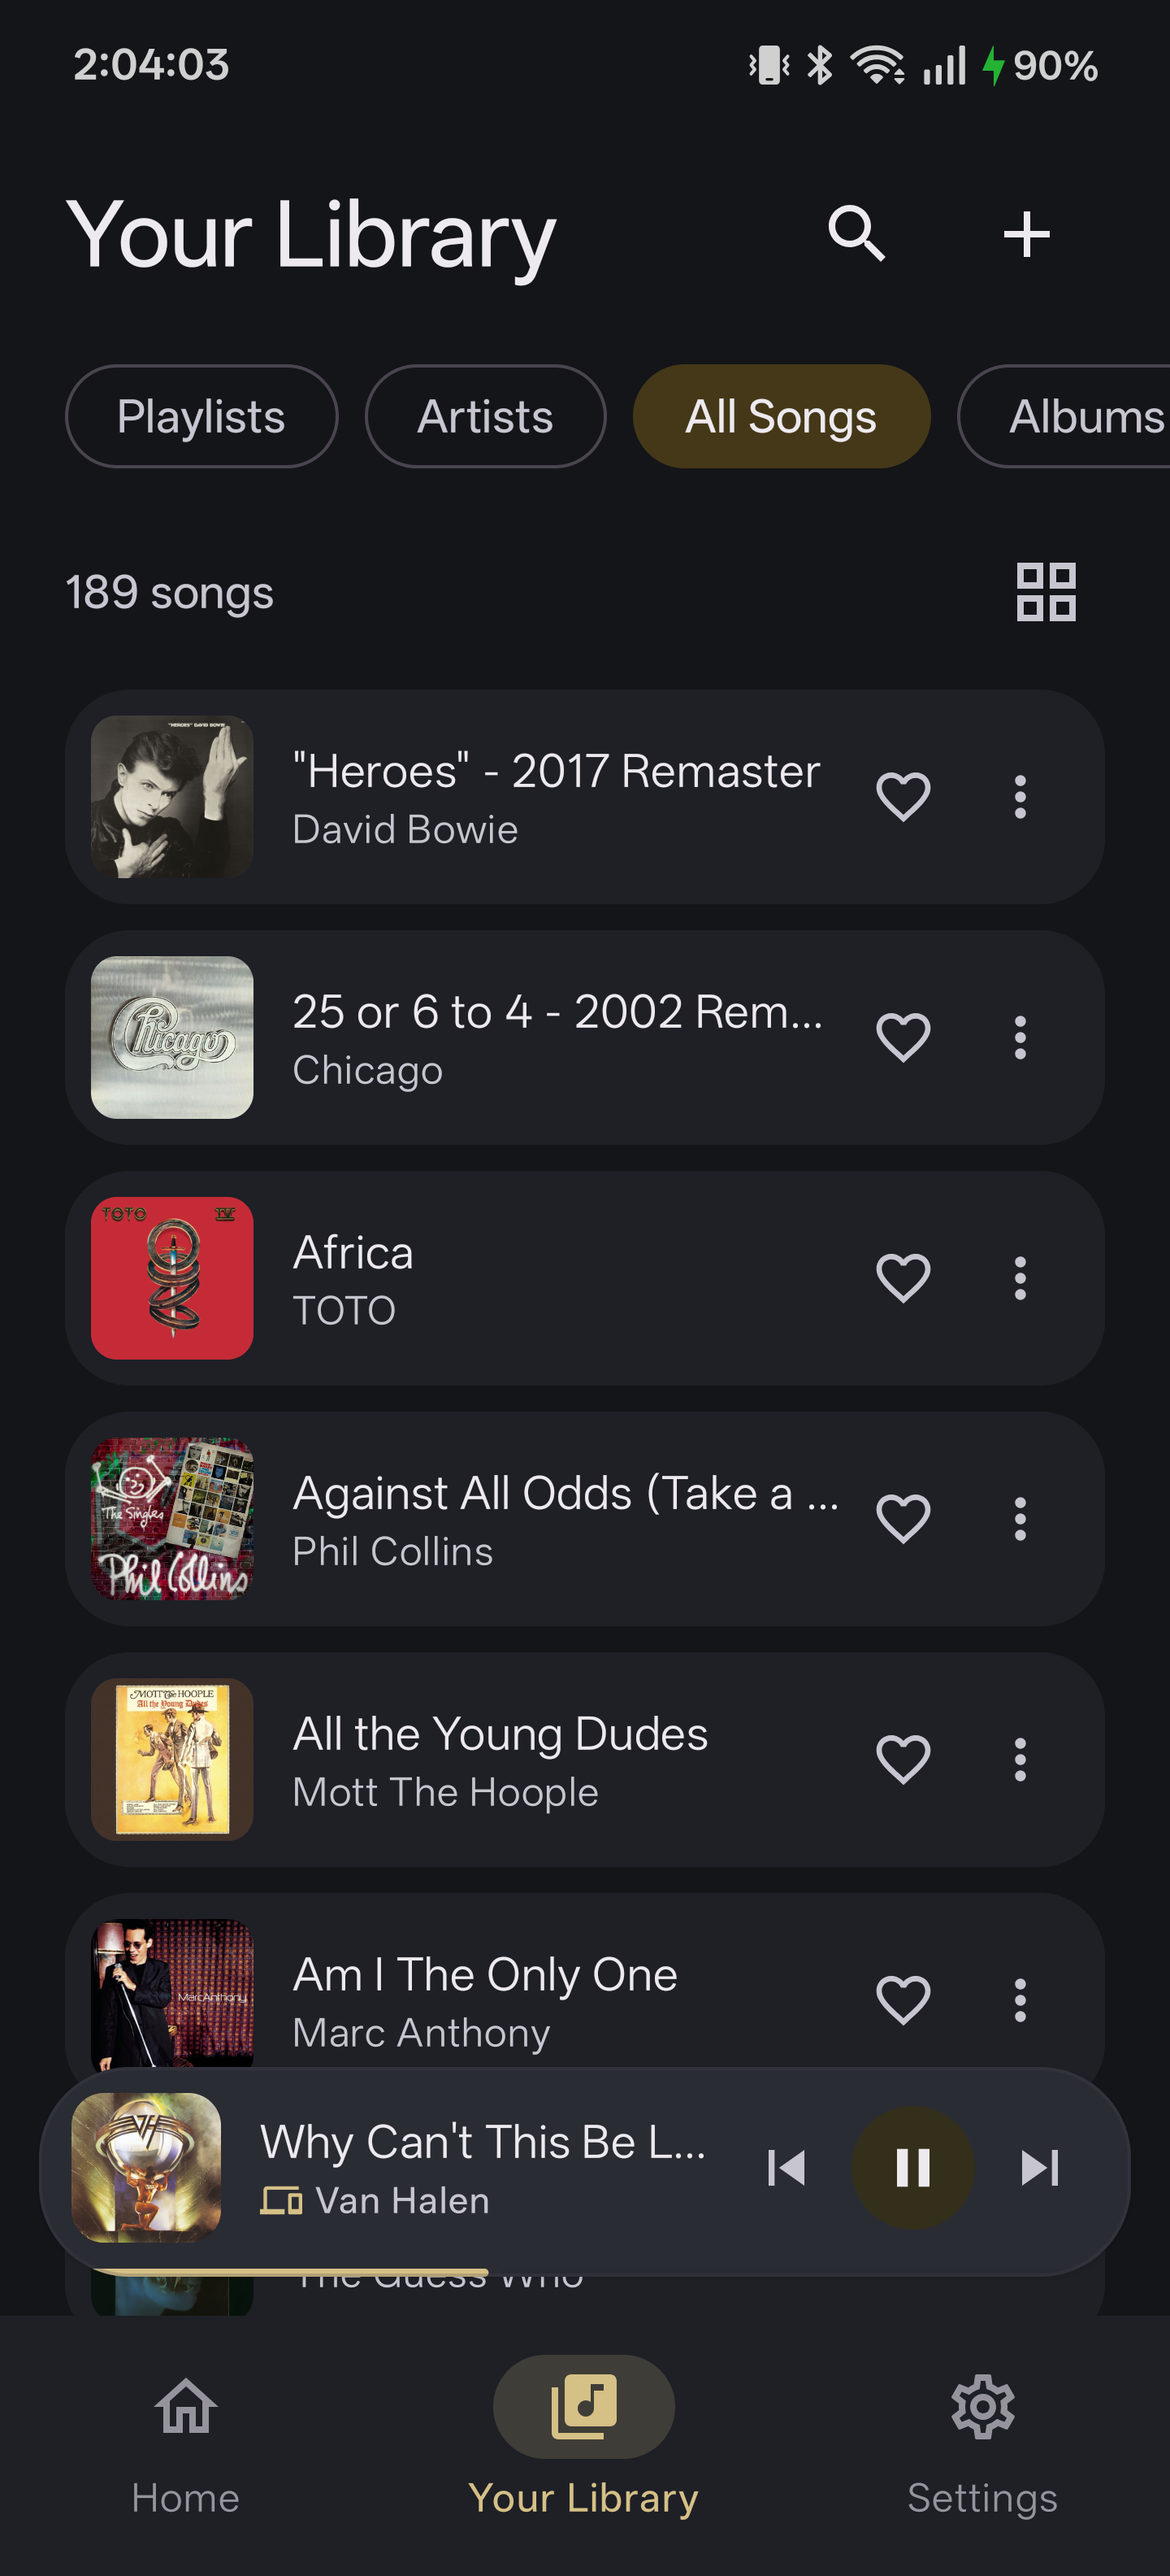
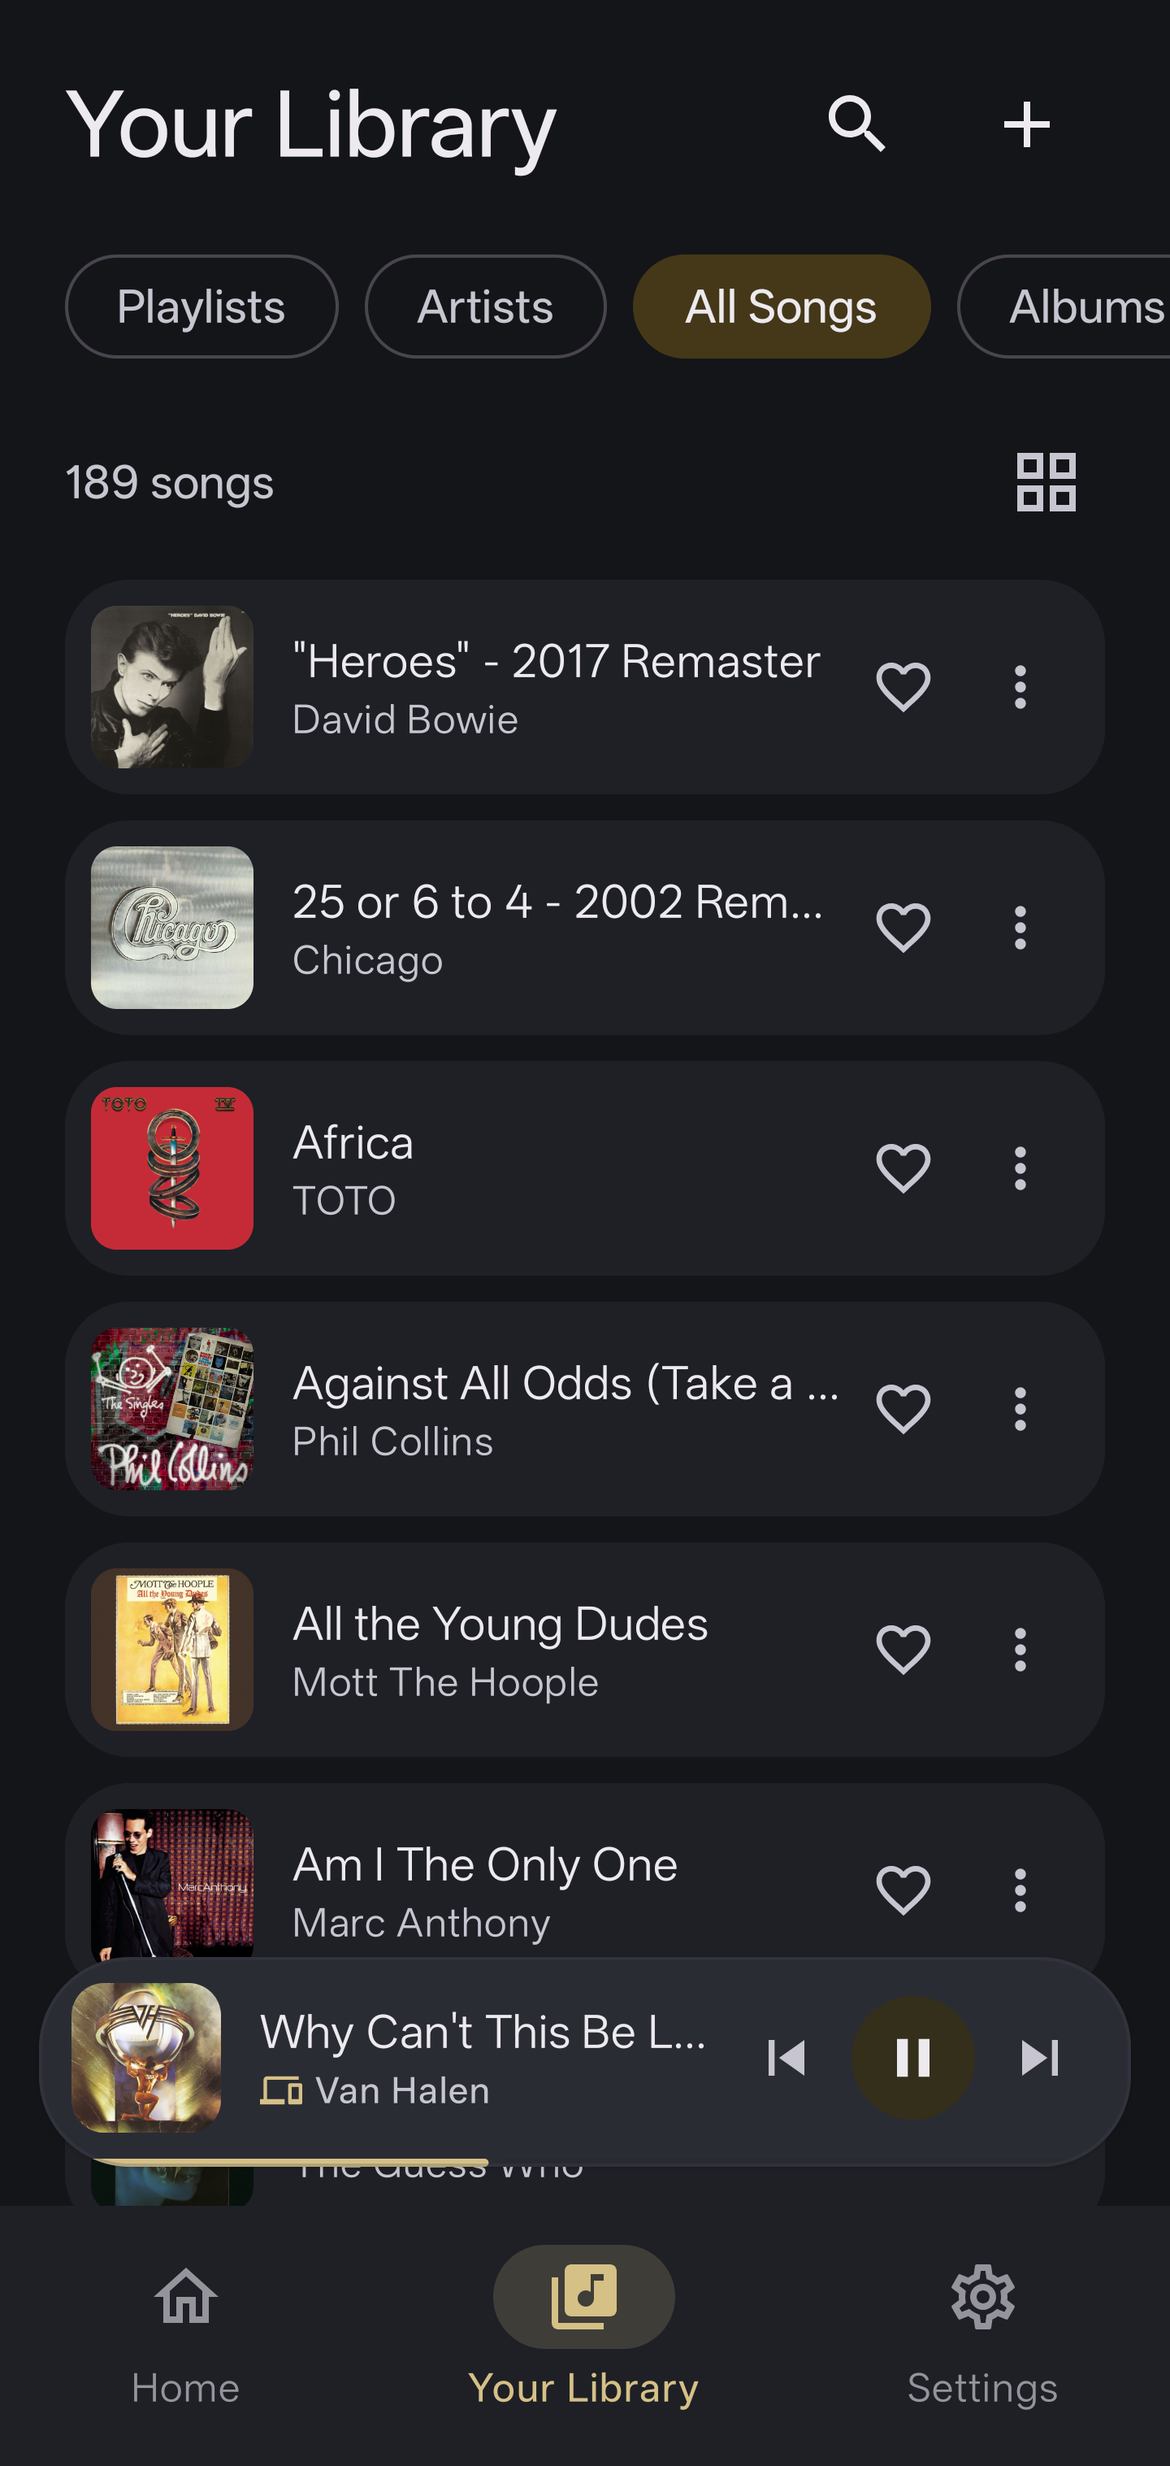
docs: crop Android status bar from screenshots and remove packaging section from README

diff --git a/README.md b/README.md
@@ -32,7 +32,6 @@
   - [Prerequisites](#prerequisites)
   - [Building from Source](#building-from-source)
   - [Running Unit Tests](#running-unit-tests)
-- [Packaging and Signing](#packaging-and-signing)
 - [Related Repositories](#related-repositories)
 - [License](#license)
 
@@ -210,41 +209,6 @@ Run the complete regression test suite:
 ```bash
 ./gradlew testDebugUnitTest
 ```
-
----
-
-## Packaging and Signing
-
-To build an optimized, signed release APK ready for distribution or GitHub Releases:
-
-### 1. Generate a Keystore (If not already created)
-
-In Android Studio:
-1. Navigate to **Build > Generate Signed Bundle / APK...**
-2. Select **APK** and click **Next**.
-3. Under **Key store path**, click **Create new...**
-4. Choose a secure storage location outside the project directory.
-5. Enter and confirm passwords for the keystore and the key alias.
-6. Set the key validity to at least 25 years.
-7. Fill in your name/organization details and click **OK**.
-
-Alternatively, generate via the command line with `keytool`:
-```bash
-keytool -genkey -v -keystore prism-release.jks -keyalg RSA -keysize 2048 -validity 10000 -alias prism
-```
-
-### 2. Build the Signed APK in Android Studio
-
-1. In Android Studio, go to **Build > Generate Signed Bundle / APK...**
-2. Select **APK** and click **Next**.
-3. Specify your keystore file path, keystore password, key alias, and key password.
-4. Click **Next**.
-5. Select destination folder: `app/release/`.
-6. Choose the **release** build variant.
-7. Ensure **V1 (Jar Signature)** and **V2 (Full APK Signature)** are checked.
-8. Click **Create**.
-9. The signed production APK will be created at:
-   `app/release/app-release.apk`
 
 ---
 
